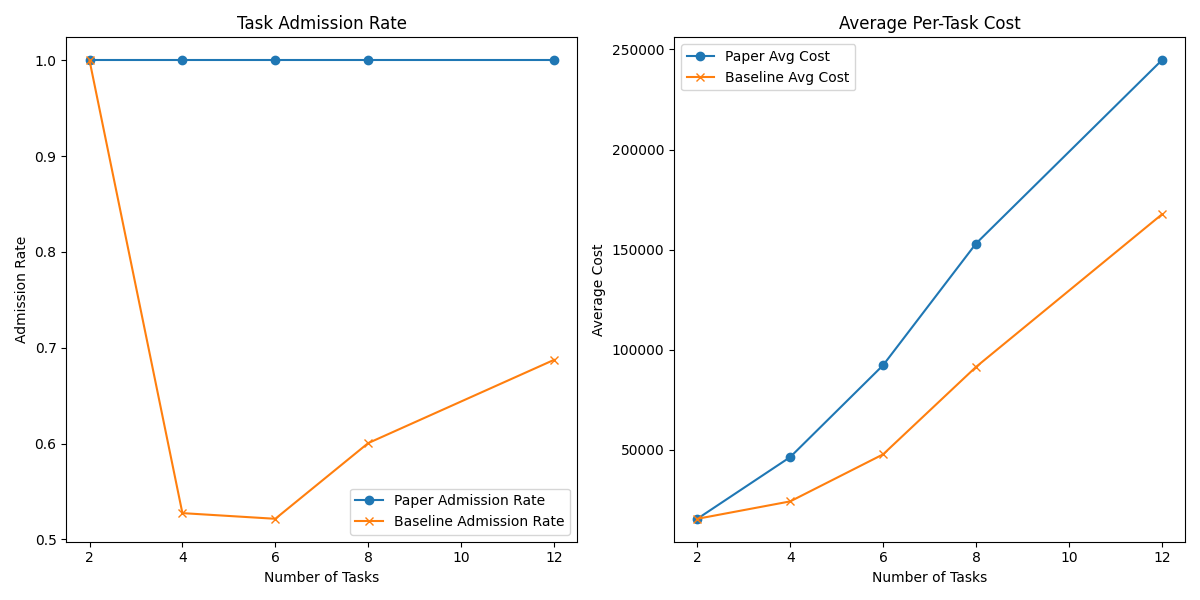
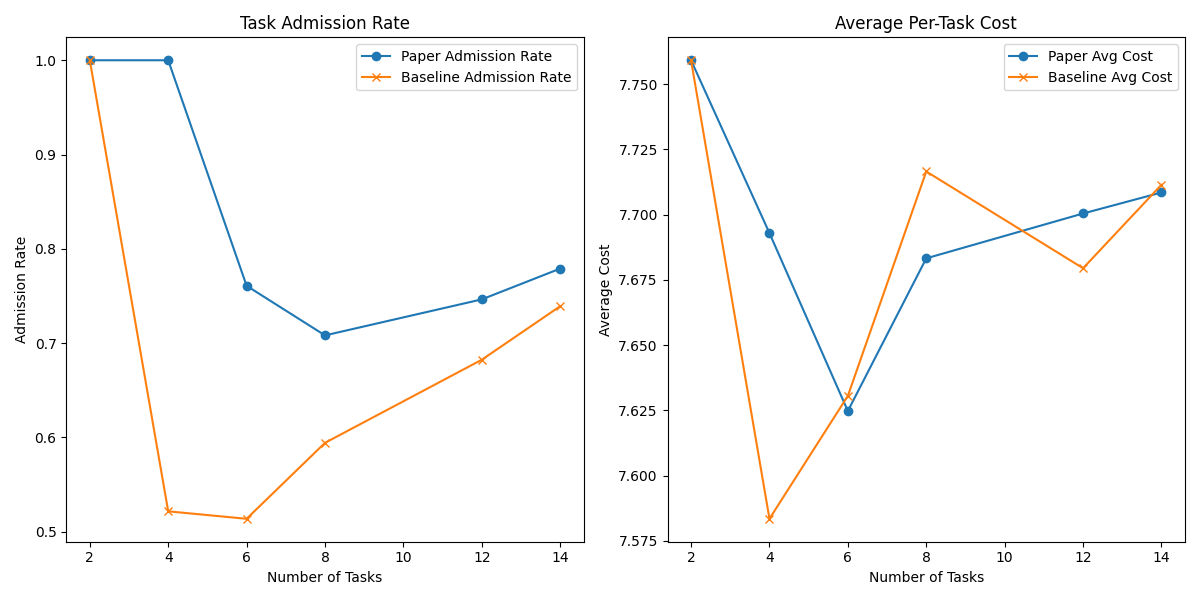
old window iteration of critical time interval

diff --git a/s6.py b/s6.py
@@ -567,7 +567,11 @@ class ASCO_Scheduler:
         if max_flow:
             flows.remove(max_flow)
             self.server_tasks[max_flow.execution_server.id].remove(max_flow)
+            server = self.server_dict[max_flow.execution_server.id]
+            server.server_tasks.remove(max_flow)
+            server.preempted_tasks.append(max_flow)
             return True
+        
         return False
 
     def select_server_for_tasks(self, tasks):
@@ -587,22 +591,32 @@ class ASCO_Scheduler:
         self.select_server_for_tasks(tasks)
         self.schedule_for_computation(tasks)
         self.normalize_flows(tasks)
-        removed_flows_count = self.control_admission(self.flows)
+        removed_flows_count = self.control_admission(tasks)
 
         
         removed_tasks = []
-        for server_tasks in self.server_tasks.values():
-            removed_tasks.extend(server_tasks)
+        for server in self.servers:
+            removed_tasks.extend(server.preempted_tasks)
 
         return {
-            "received_tasks": total_tasks_num,
-            "pruned_flows": removed_flows_count,
-            "preempted_tasks": 0,
-            "removed_tasks": removed_tasks
+            "received_tasks_num": total_tasks_num,
+            "removed_tasks": removed_tasks,
+            "pruned_flows_num": removed_flows_count
         }
 
     def apply(self, tasks):
         return self.apply_ASCO(tasks)
+    def calculate_free_time_interval(flows):
+        start_time = 0
+        end_time = 0
+        for flow in flows:
+            if flow.arrival_time < start_time:
+                start_time = flow.arrival_time
+            if flow.starting_time > end_time:
+                end_time = flow.starting_time    # can be changes to dealine 
+            
+        return start_time , end_time
+    
 
     def find_most_critical_interval(self, flows):
         if not flows:
@@ -623,11 +637,16 @@ class ASCO_Scheduler:
             if not curr_flows:
                 continue
 
+
+
             # Sort flows by arrival time
             curr_flows.sort(key=lambda flow: flow.arrival_time)
 
+
             # Initialize sliding window parameters
-            start_time = curr_flows[0].arrival_time
+            # start_time = 
+            curr_flows[0].arrival_time
+            start_time , end_time = self.calculate_free_time_interval(curr_flows)
             window_sum = 0
             active_flows = []
 
@@ -1050,10 +1069,8 @@ class Baseline_Scheduler:
         removed_tasks = []
         for server in self.servers:
             removed_tasks.extend(server.preempted_tasks)
-
         return {
-            "received_tasks": total_tasks_num,
-            "preempted_tasks": sum(len(server.preempted_tasks) for server in self.servers),
+            "received_tasks_num": total_tasks_num,
             "removed_tasks": removed_tasks
         }
         
@@ -1085,8 +1102,8 @@ class Simulation:
 
         total_cost = sum(task.cost for task in generated_tasks)
         removed_cost = sum(task.cost for task in output_data["removed_tasks"])
-        # avg_cost_per_task = (total_cost - removed_cost) / len(generated_tasks) if generated_tasks else 0
-        avg_cost_per_task = (total_cost - removed_cost)
+        avg_cost_per_task = (total_cost - removed_cost) / (len(generated_tasks)-len(output_data["removed_tasks"])) if generated_tasks else 0
+        # avg_cost_per_task = (total_cost - removed_cost)
         
         output_data["avg_cost_per_task"] = avg_cost_per_task
         print(f"the output of the paper algo {output_data}")
@@ -1097,8 +1114,8 @@ class Simulation:
         output_data = Baseline_Scheduler(simulation_instance=self).apply(generated_tasks)
         total_cost = sum(task.cost for task in generated_tasks)
         removed_cost = sum(task.cost for task in output_data["removed_tasks"])
-        # avg_cost_per_task = (total_cost - removed_cost) / len(generated_tasks) if generated_tasks else 0
-        avg_cost_per_task = (total_cost - removed_cost)
+        avg_cost_per_task = (total_cost - removed_cost) /(len(generated_tasks)-len(output_data["removed_tasks"])) if generated_tasks else 0
+        # avg_cost_per_task = (total_cost - removed_cost)
         
         output_data["avg_cost_per_task"] = avg_cost_per_task
         print(f"the output of the base algo {output_data}")
@@ -1166,13 +1183,13 @@ def run_simulation(tasks_num,network):
         _, generated_tasks = task_generator.generate_tasks(None, int(i * 1000), task_generation_prob=1, task_size_min=10, task_size_max=1000)
         # print(len(generated_tasks)," TTTTTTTT\n")
         paper_output = simulation.run(1,generated_tasks)
-        paper_admission = (paper_output['received_tasks'] - paper_output['preempted_tasks']) / paper_output['received_tasks']
+        paper_admission = (paper_output['received_tasks_num'] - len(paper_output['removed_tasks'])) / paper_output['received_tasks_num']
         paper_cost = paper_output['avg_cost_per_task']
         paper_results= (paper_admission, paper_cost)
         
         
         base_output = simulation.run(2,generated_tasks)
-        base_admission = (base_output['received_tasks'] - base_output['preempted_tasks']) / base_output['received_tasks']
+        base_admission = (base_output['received_tasks_num'] - len(base_output['removed_tasks'])) / base_output['received_tasks_num']
         base_cost = base_output['avg_cost_per_task']
         base_results= (base_admission, base_cost)
         # print(f"{base_output} ddddd.  ")
@@ -1281,18 +1298,20 @@ def save_data_to_file(data, filename):
         # } for k, v in data.items()}
         json.dump(data, f, indent=4)
 
-def load_data_from_file(filename):
-    """Load data from a JSON file."""
+def load_data_from_file(filename, convert_to_tuples=False):
+    json_data=0
     with open(filename, 'r') as f:
         json_data = json.load(f)
-        return {int(k): {
-            "paper": [tuple(p) for p in v["paper"]],
-            "baseline": [tuple(b) for b in v["baseline"]]
-        } for k, v in json_data.items()}
+
+    # for k, v in json_data.items():
+    #     print(k,v)
+
+    return json_data    
+        
 
 def ensure_directory_exists(directory):
     """Create directory if it doesn't exist."""
-    
+
     if not os.path.exists(directory):
         os.makedirs(directory)
 
@@ -1348,8 +1367,8 @@ def generate_individual_graphs(tasks_results_map, output_dir, scale):
 
 
 def main():
-    tasks_small_num = [0.5, 1.0, 1.5, 2.0, 2.5, 3.0]
-    tasks_big_num = [2, 4, 6, 8, 12]
+    tasks_small_num = [0.5, 1.0, 1.5, 2.0, 2.5, 3.0,3.5]
+    tasks_big_num = [2, 4, 6, 8, 12,14]
 
     output_dir = "simulation_results"
     ensure_directory_exists(output_dir)
@@ -1371,9 +1390,32 @@ def main():
     network_large.generate_pcp_network()
 
     # Large scale with 100 cloudlets
-    large_scale_results = run_simulation(tasks_big_num, network_large)
+    # large_scale_results = run_simulation(tasks_big_num, network_large)
     # visualize_results(large_scale_results, "Large scale with 100 cloudlets", graphs_dir)
     generate_individual_graphs(large_scale_results, graphs_dir, "large_scale")
     save_data_to_file(large_scale_results, os.path.join(data_dir, "large_scale_results.json"))
 
+    # large_scale_results= load_data_from_file("F:\Sem8\paper_simulation\simulation_results\data\large_scale_results.json")
+    # small_scale_results= load_data_from_file("F:\Sem8\paper_simulation\simulation_results\data\small_scale_results.json")
+    print_percentages(small_scale_results,"Small_Scale")
+    print_percentages(large_scale_results,"large_Scale")
+    
+
+
+
+   
+
+
+def print_percentages(results,title):
+     print("****************",title,"*****************\n")
+
+     for num, result in results.items():
+        paper_admission , paper_cost = result["paper"]
+        baseline_admission , baseline_cost = result["baseline"]
+        # print(paper_admission , paper_cost)
+        # print(baseline_admission , baseline_cost)
+        admission_rate_improvement =((paper_admission-baseline_admission)/baseline_admission)*100
+        cost_per_task_reduction=((baseline_cost-paper_cost)/baseline_cost)*100
+        print(f"K = {num}\nadmission_rate_improvement: {admission_rate_improvement } %\ncost_per_task_reduction: {cost_per_task_reduction} %")
+        print("\n")
 main()
